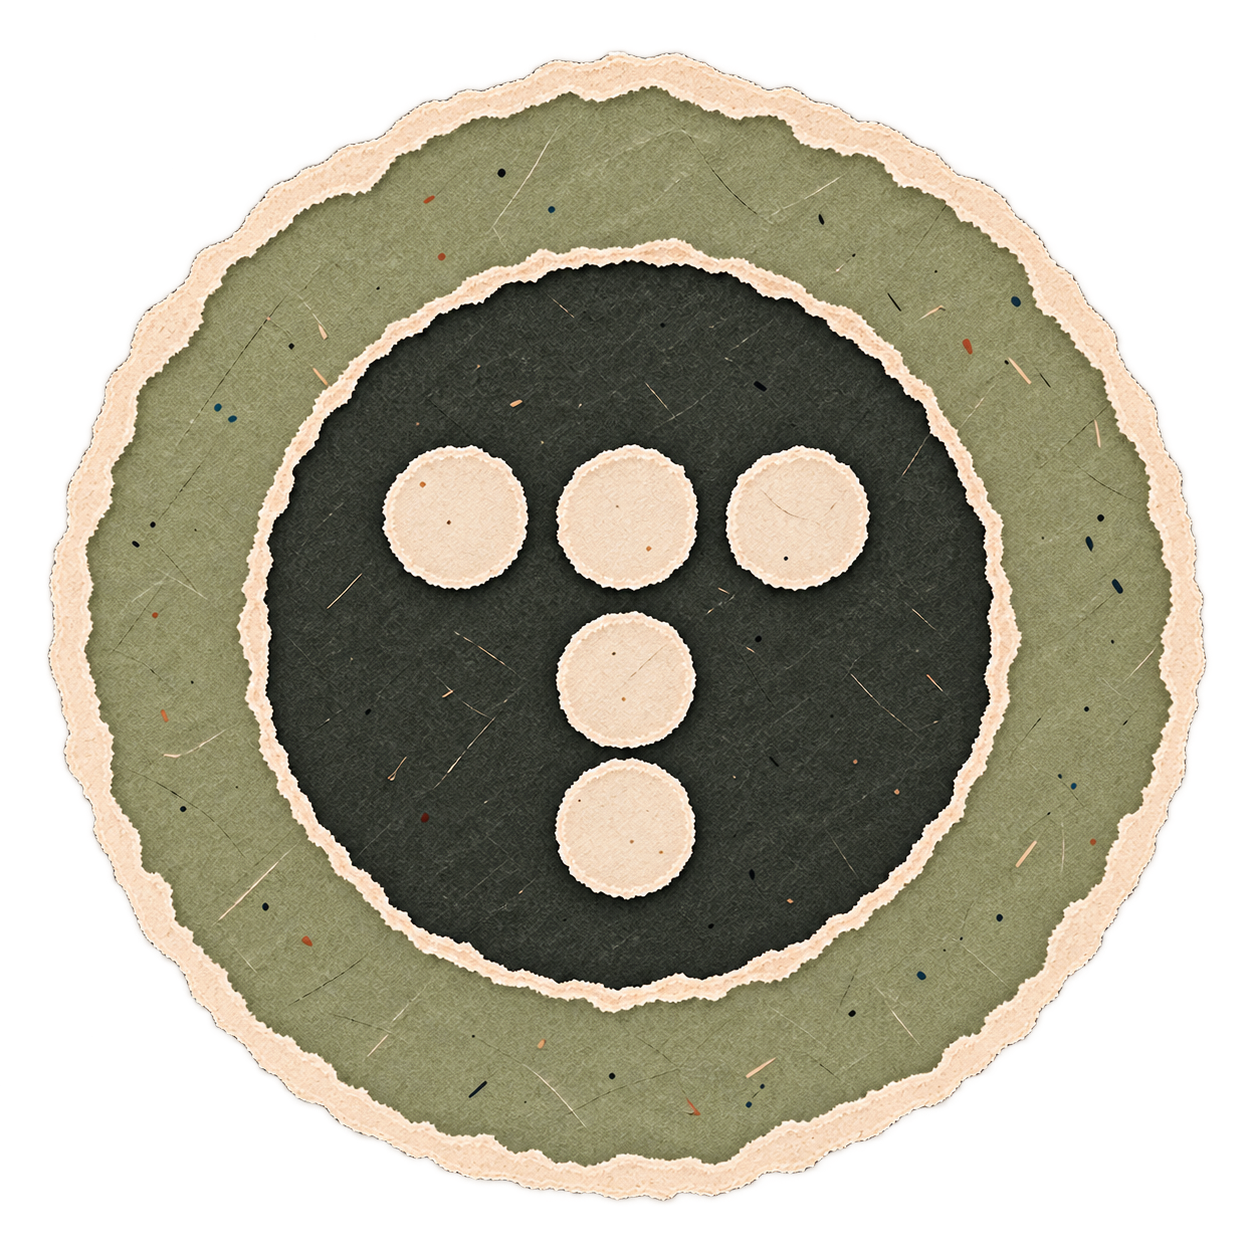
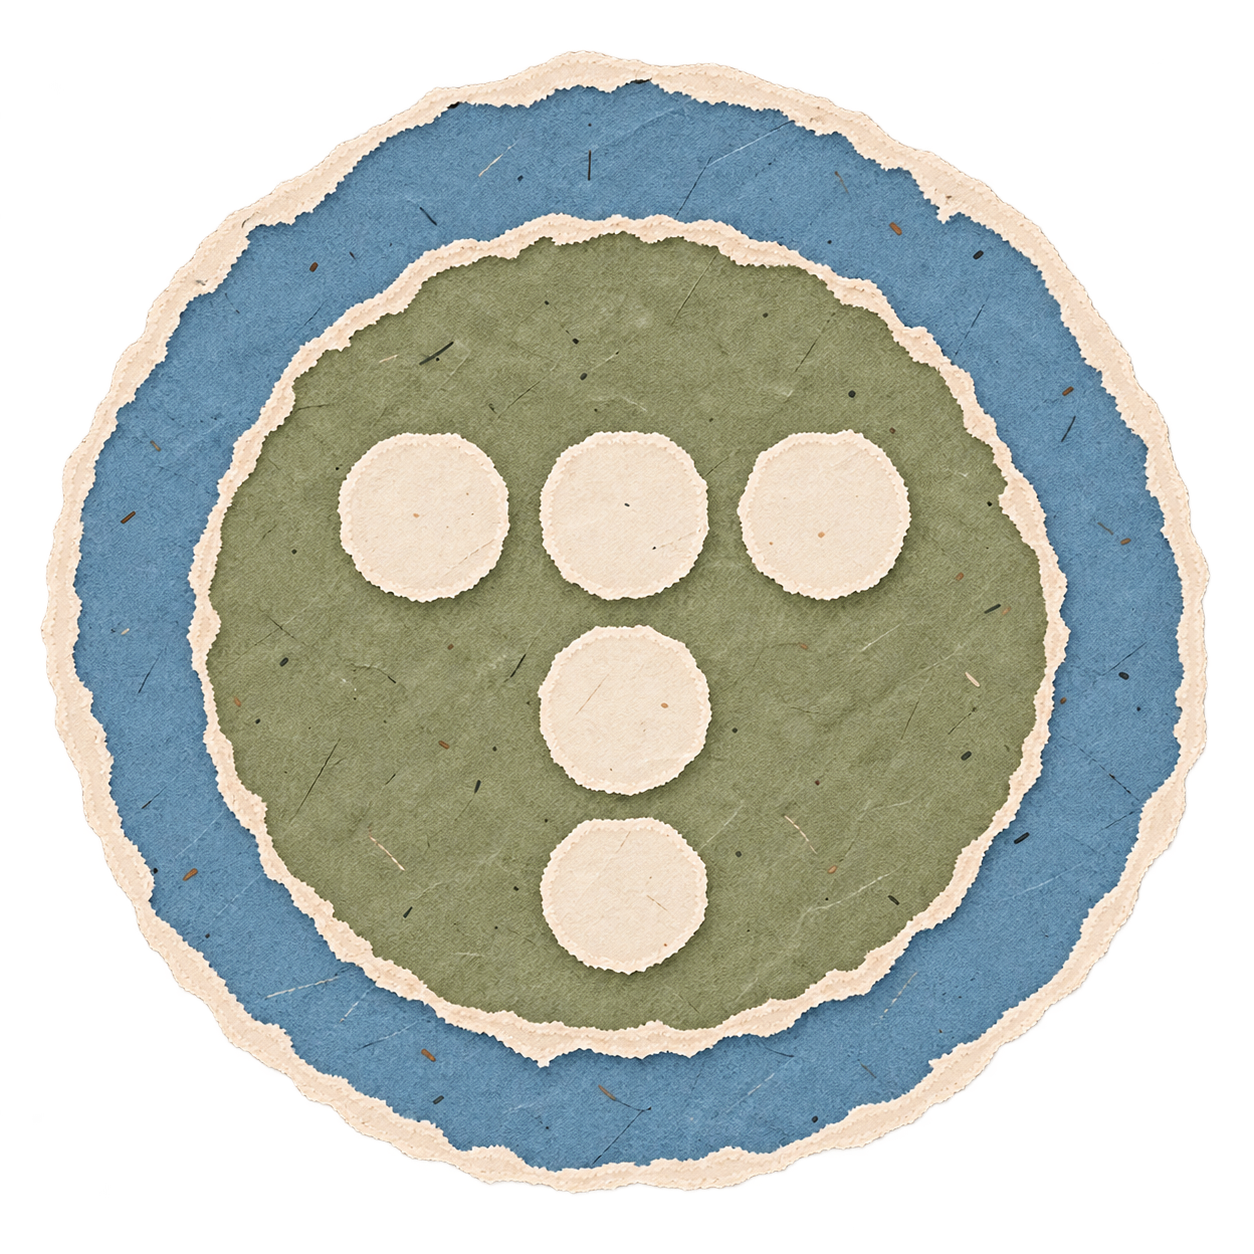
Add footer shortcuts and UNESCO career detail

diff --git a/index.html b/index.html
@@ -36,13 +36,20 @@
     <script src="js/script.js" defer></script>
   </head>
   <body>
+    <svg width="0" height="0" aria-hidden="true" style="position:absolute;pointer-events:none">
+      <defs>
+        <filter id="paper-cutout" color-interpolation-filters="sRGB">
+          <feColorMatrix type="matrix" values="1 0 0 0 0  0 1 0 0 0  0 0 1 0 0  3 3 3 0 -0.2" />
+        </filter>
+      </defs>
+    </svg>
     <div class="cover-cursor" aria-hidden="true"><img src="image/DESIGN.png" alt="" /></div>
     <p class="maker-credit"><span class="maker-prefix">by.</span> <span>JUNHWA LEE</span></p>
     <header>
       <div class="header-inner"><span class="category">Design Portfolio</span><span class="year">2026</span></div>
     </header>
     <main class="cover-transition">
-      <section class="page1" data-header-theme="dark" aria-labelledby="portfolio-title">
+      <section class="page1" id="top" data-header-theme="dark" aria-labelledby="portfolio-title">
         <div class="hero-stage">
           <img class="meadow-background" src="image/background.png" alt="" fetchpriority="high" />
           <canvas class="meadow-canvas" aria-hidden="true"></canvas>
@@ -219,7 +226,10 @@
                           <dl class="resume-rows">
                             <div class="resume-row">
                               <dt>2026.06 - 2026.09</dt>
-                              <dd>세계유산지속가능센터 근무</dd>
+                              <dd>
+                                세계유산지속가능센터 근무
+                                <p class="resume-note">· 제48차 UNESCO 세계유산위원회 안내단 코디네이터</p>
+                              </dd>
                             </div>
                             <div class="resume-row">
                               <dt>2024.03 - 2024.10</dt>
@@ -462,13 +472,24 @@
             <span class="footer-credit-text"><span class="maker-prefix">by.</span> <span>JUNHWA LEE</span></span>
           </p>
           <div class="icon-group">
-            <a href="https://github.com/eeljun00" target="_blank" rel="noopener noreferrer" aria-label="GitHub 열기"><img src="image/icon_github.png?v=20261014-paper" alt="" loading="lazy" decoding="async" /></a>
-            <a href="https://www.notion.so/1f24daa3b0fb80769170cc9d5913c0cb" target="_blank" rel="noopener noreferrer" aria-label="Notion 열기"><img src="image/icon_notion.png?v=20261014-paper" alt="" loading="lazy" decoding="async" /></a>
-            <a href="https://eeeljun.tistory.com/" target="_blank" rel="noopener noreferrer" aria-label="Tistory 열기"><img src="image/icon_tistory.png?v=20261014-paper" alt="" loading="lazy" decoding="async" /></a>
+            <a href="https://github.com/eeljun00" target="_blank" rel="noopener noreferrer" aria-label="GitHub 열기"><img src="image/icon_github.png?v=20261014-nav" alt="" loading="lazy" decoding="async" /></a>
+            <a href="https://www.notion.so/1f24daa3b0fb80769170cc9d5913c0cb" target="_blank" rel="noopener noreferrer" aria-label="Notion 열기"><img src="image/icon_notion.png?v=20261014-nav" alt="" loading="lazy" decoding="async" /></a>
+            <a href="https://eeeljun.tistory.com/" target="_blank" rel="noopener noreferrer" aria-label="Tistory 열기"><img src="image/icon_tistory.png?v=20261014-nav" alt="" loading="lazy" decoding="async" /></a>
           </div>
+          <nav class="footer-section-nav" aria-label="섹션 바로가기">
+            <a href="#direction" data-scene-jump="direction">Direction</a>
+            <a href="#perspective" data-scene-jump="perspective">Perspective</a>
+            <a href="#about" data-scene-jump="about">About</a>
+            <a href="#projects" data-scene-jump="projects">Project</a>
+          </nav>
+          <a class="back-to-top" href="#top" data-scene-jump="top">
+            <img src="image/icon_up.png?v=20261014-nav" alt="" loading="lazy" decoding="async" />
+            <span>맨 위로</span>
+          </a>
           <p class="footer-caption">이준화 포트폴리오</p>
         </div>
       </footer>
     </main>
+    <div class="scene-jump-veil" aria-hidden="true"></div>
   </body>
 </html>

diff --git a/css/portfolio-hero.css b/css/portfolio-hero.css
@@ -208,6 +208,16 @@ body.maker-credit-landed .footer-credit-text { color:#F7F4EA; }
 .page5 .icon-group a:hover img,.page5 .icon-group a:focus-visible img { opacity:1; filter:brightness(1.02) saturate(1); }
 .page5 .icon-group a:focus-visible { outline:2px solid var(--point); outline-offset:4px; }
 .footer-caption { position:absolute; bottom:8%; left:0; width:100%; font-size:clamp(10px,.73vw,14px); color:var(--paper); }
+.footer-section-nav { position:absolute; top:76%; left:50%; translate:-50% 0; display:flex; justify-content:center; gap:28px; }
+.footer-section-nav a { display:grid; place-items:center; min-height:44px; padding:0 6px; color:var(--paper); font-size:16px; font-weight:500; text-decoration:none; text-underline-offset:6px; }
+.footer-section-nav a:hover { color:var(--point); text-decoration:underline; }
+.back-to-top { position:absolute; right:5.5%; bottom:5.5%; display:flex; flex-direction:column; align-items:center; gap:8px; min-width:88px; padding:6px; color:var(--paper); font-size:16px; font-weight:500; text-decoration:none; }
+.back-to-top img { width:64px; height:64px; object-fit:contain; filter:url(#paper-cutout); opacity:.82; transform-origin:50% 75%; transition:transform .12s steps(2,end),opacity .18s; }
+.back-to-top:hover img,.back-to-top:focus-visible img { transform:translateY(-4px) rotate(-6deg); opacity:1; }
+.footer-section-nav a:focus-visible,.back-to-top:focus-visible { outline:2px solid var(--point); outline-offset:4px; }
+.scene-focus-target:focus { outline:none; }
+.scene-jump-veil { position:fixed; inset:0; z-index:4000; background:var(--paper); opacity:0; pointer-events:none; transition:opacity .16s ease; }
+body.scene-jumping .scene-jump-veil { opacity:1; pointer-events:auto; }
 @media (max-width:1399px) {
   .resume-grid { --cv-unit:1px; grid-template-columns:1fr; gap:40px; min-height:0; padding-top:70px; }
   .resume-column { display:contents; }
@@ -275,6 +285,10 @@ body.maker-credit-landed .footer-credit-text { color:#F7F4EA; }
   .page5 .icon-group { top:61%; gap:12px; }
   .page5 .icon-group img { width:60px; height:60px; }
   .footer-caption { font-size:12px; bottom:8%; }
+  .footer-section-nav { top:73%; width:280px; display:grid; grid-template-columns:1fr 1fr; gap:0 12px; }
+  .footer-section-nav a { font-size:15px; }
+  .back-to-top { right:24px; bottom:24px; min-width:64px; font-size:14px; gap:4px; }
+  .back-to-top img { width:56px; height:56px; }
 }
 /* Static flow is also the fallback when JS or motion is unavailable. */
 body:not(.horizontal-enabled) .portfolio-content { height:auto; }
@@ -305,4 +319,6 @@ body:not(.horizontal-enabled) .story-panel { height:auto; overflow:visible; }
   .hero-symbol .symbol-icon { animation:none; opacity:1; transform:none; }
   .page1 .name { opacity:1; }
   .page5 .icon-group img { transform:none; transition:none; }
+  .back-to-top img,.back-to-top:hover img,.back-to-top:focus-visible img { transform:none; transition:none; }
+  .scene-jump-veil { transition:none; }
 }

diff --git a/js/script.js b/js/script.js
@@ -660,3 +660,61 @@ smoothScroll?.on("scroll", () => {
   updateScene();
   scheduleHeaderTheme();
 });
+
+// Footer shortcuts jump to the settled scene rather than replaying every panel.
+const sceneHeadingIds = {top:"portfolio-title", direction:"direction-label", perspective:"perspective-label", about:"about-label", projects:"project-label"};
+Object.values(sceneHeadingIds).forEach(id => {
+  const heading = document.getElementById(id);
+  heading.tabIndex = -1;
+  heading.classList.add("scene-focus-target");
+});
+let footerNavigationPending = false;
+function footerSceneTarget(scene) {
+  if (scene === "top") return 0;
+  if (reducedMotion.matches) return window.scrollY + document.getElementById(scene).getBoundingClientRect().top;
+  const base = window.scrollY + story.getBoundingClientRect().top;
+  if (scene === "about") return base + storyStops[1].start;
+  if (scene === "projects") return base + storyStops[2].start;
+  if (scene === "perspective") {
+    const stop = storyStops[0];
+    const preLift = Math.min(stop.extra, storyStage.clientHeight * .08);
+    const body = storyPanels[0].querySelector(".panel-body");
+    const naturalTop = perspectiveSection.getBoundingClientRect().top - body.getBoundingClientRect().top;
+    const lift = clamp(naturalTop - 24, preLift, stop.extra);
+    return base + stop.hold + stop.entrance + Math.max(0, lift - preLift);
+  }
+  return base;
+}
+async function jumpFromFooter(scene) {
+  if (footerNavigationPending) return;
+  footerNavigationPending = true;
+  const animate = !reducedMotion.matches;
+  const pause = ms => new Promise(resolve => setTimeout(resolve, ms));
+  try {
+    smoothScroll?.stop();
+    if (animate) {
+      document.body.classList.add("scene-jumping");
+      await pause(160);
+    }
+    measureStory();
+    const target = footerSceneTarget(scene);
+    if (smoothScroll) smoothScroll.scrollTo(target, {immediate:true, force:true});
+    else window.scrollTo({top:target, behavior:"instant"});
+    updateScene();
+    updateHeaderTheme();
+    document.getElementById(sceneHeadingIds[scene]).focus({preventScroll:true});
+    if (animate) await new Promise(resolve => requestAnimationFrame(() => requestAnimationFrame(resolve)));
+  } finally {
+    document.body.classList.remove("scene-jumping");
+    smoothScroll?.start();
+    if (animate) await pause(160);
+    footerNavigationPending = false;
+  }
+}
+footer.querySelectorAll("[data-scene-jump]").forEach(link => {
+  link.addEventListener("click", event => {
+    event.preventDefault();
+    event.stopPropagation();
+    jumpFromFooter(link.dataset.sceneJump);
+  });
+});
